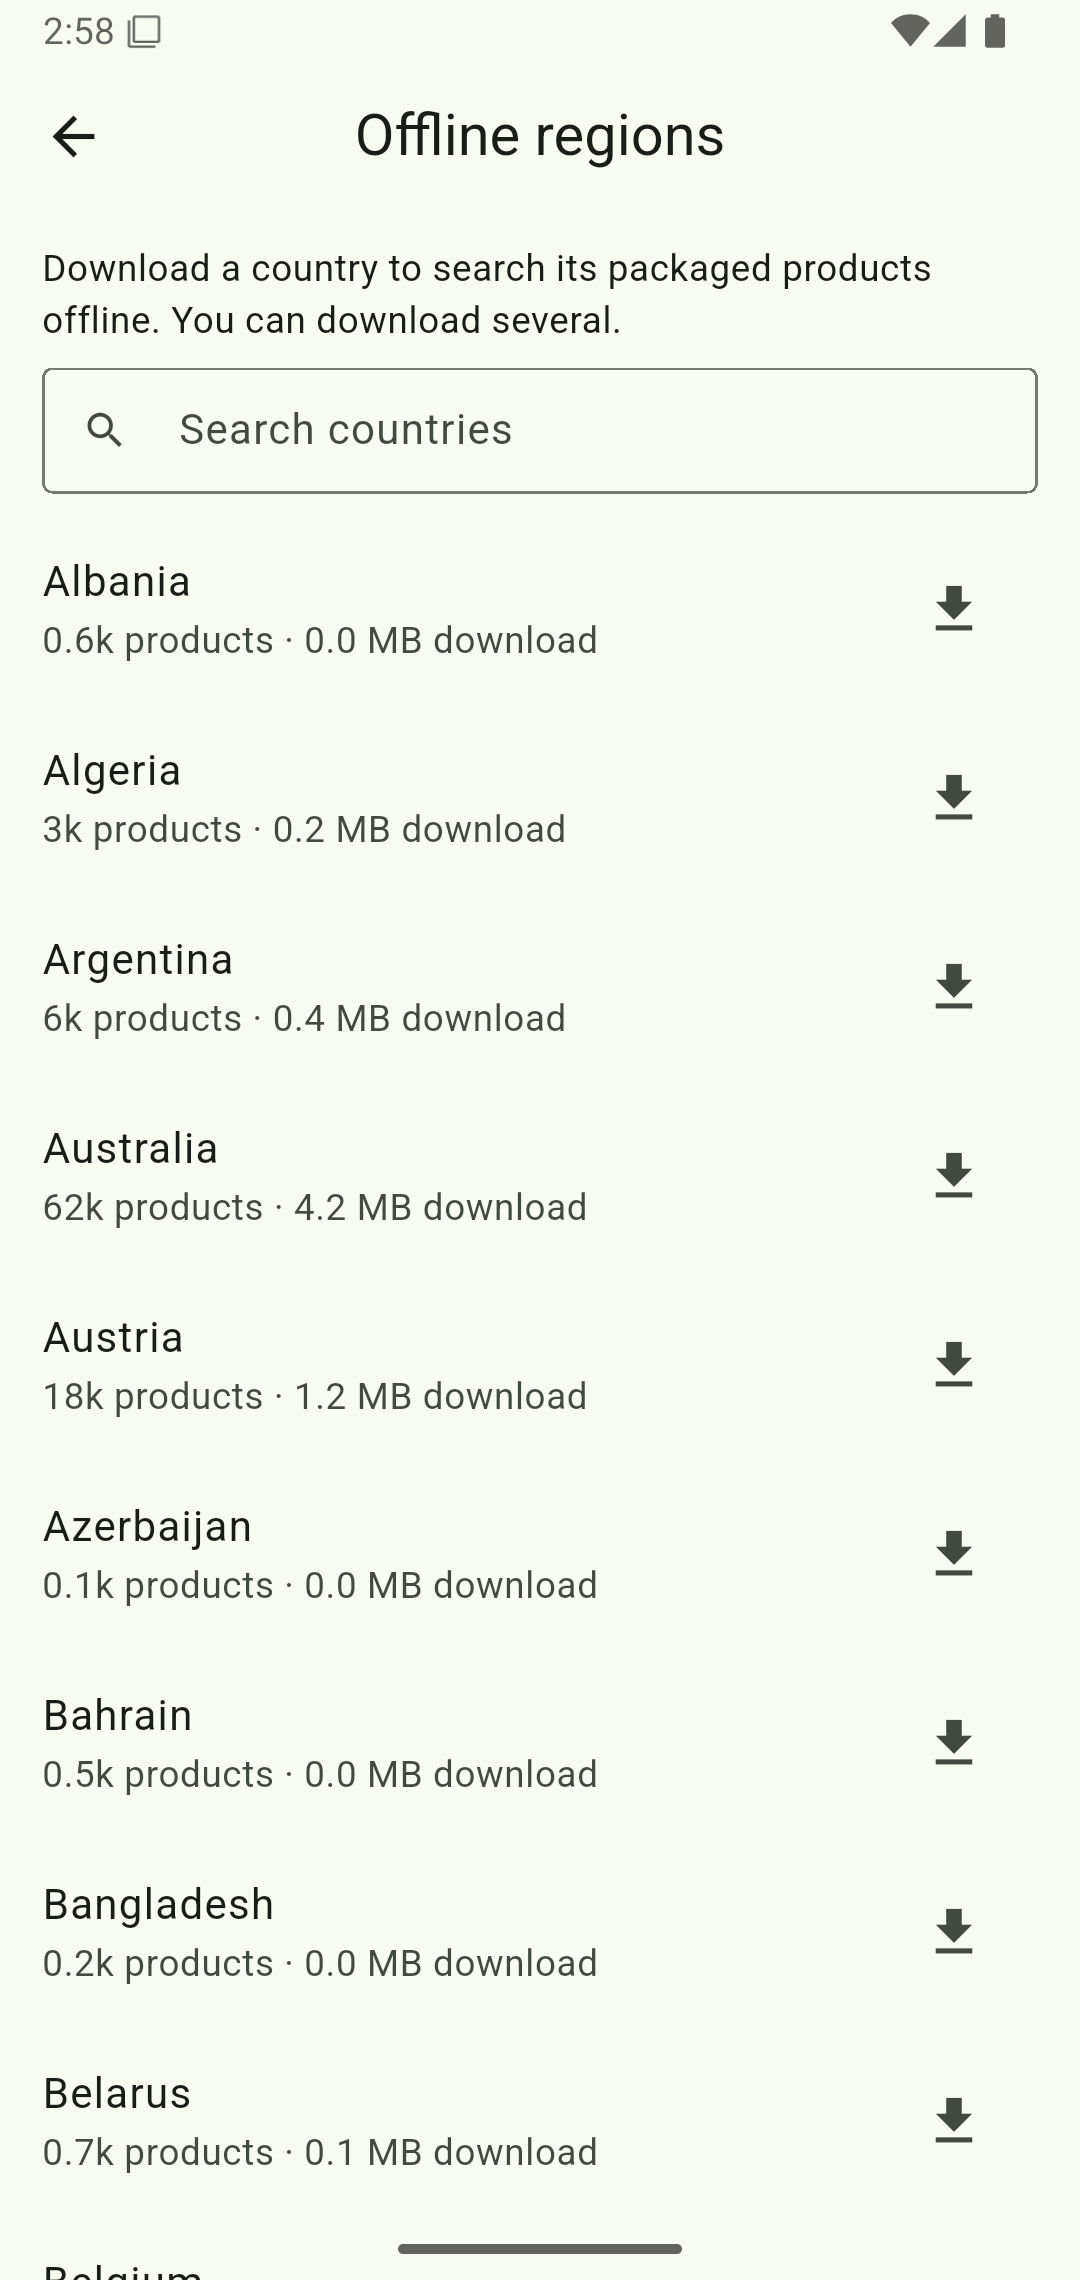
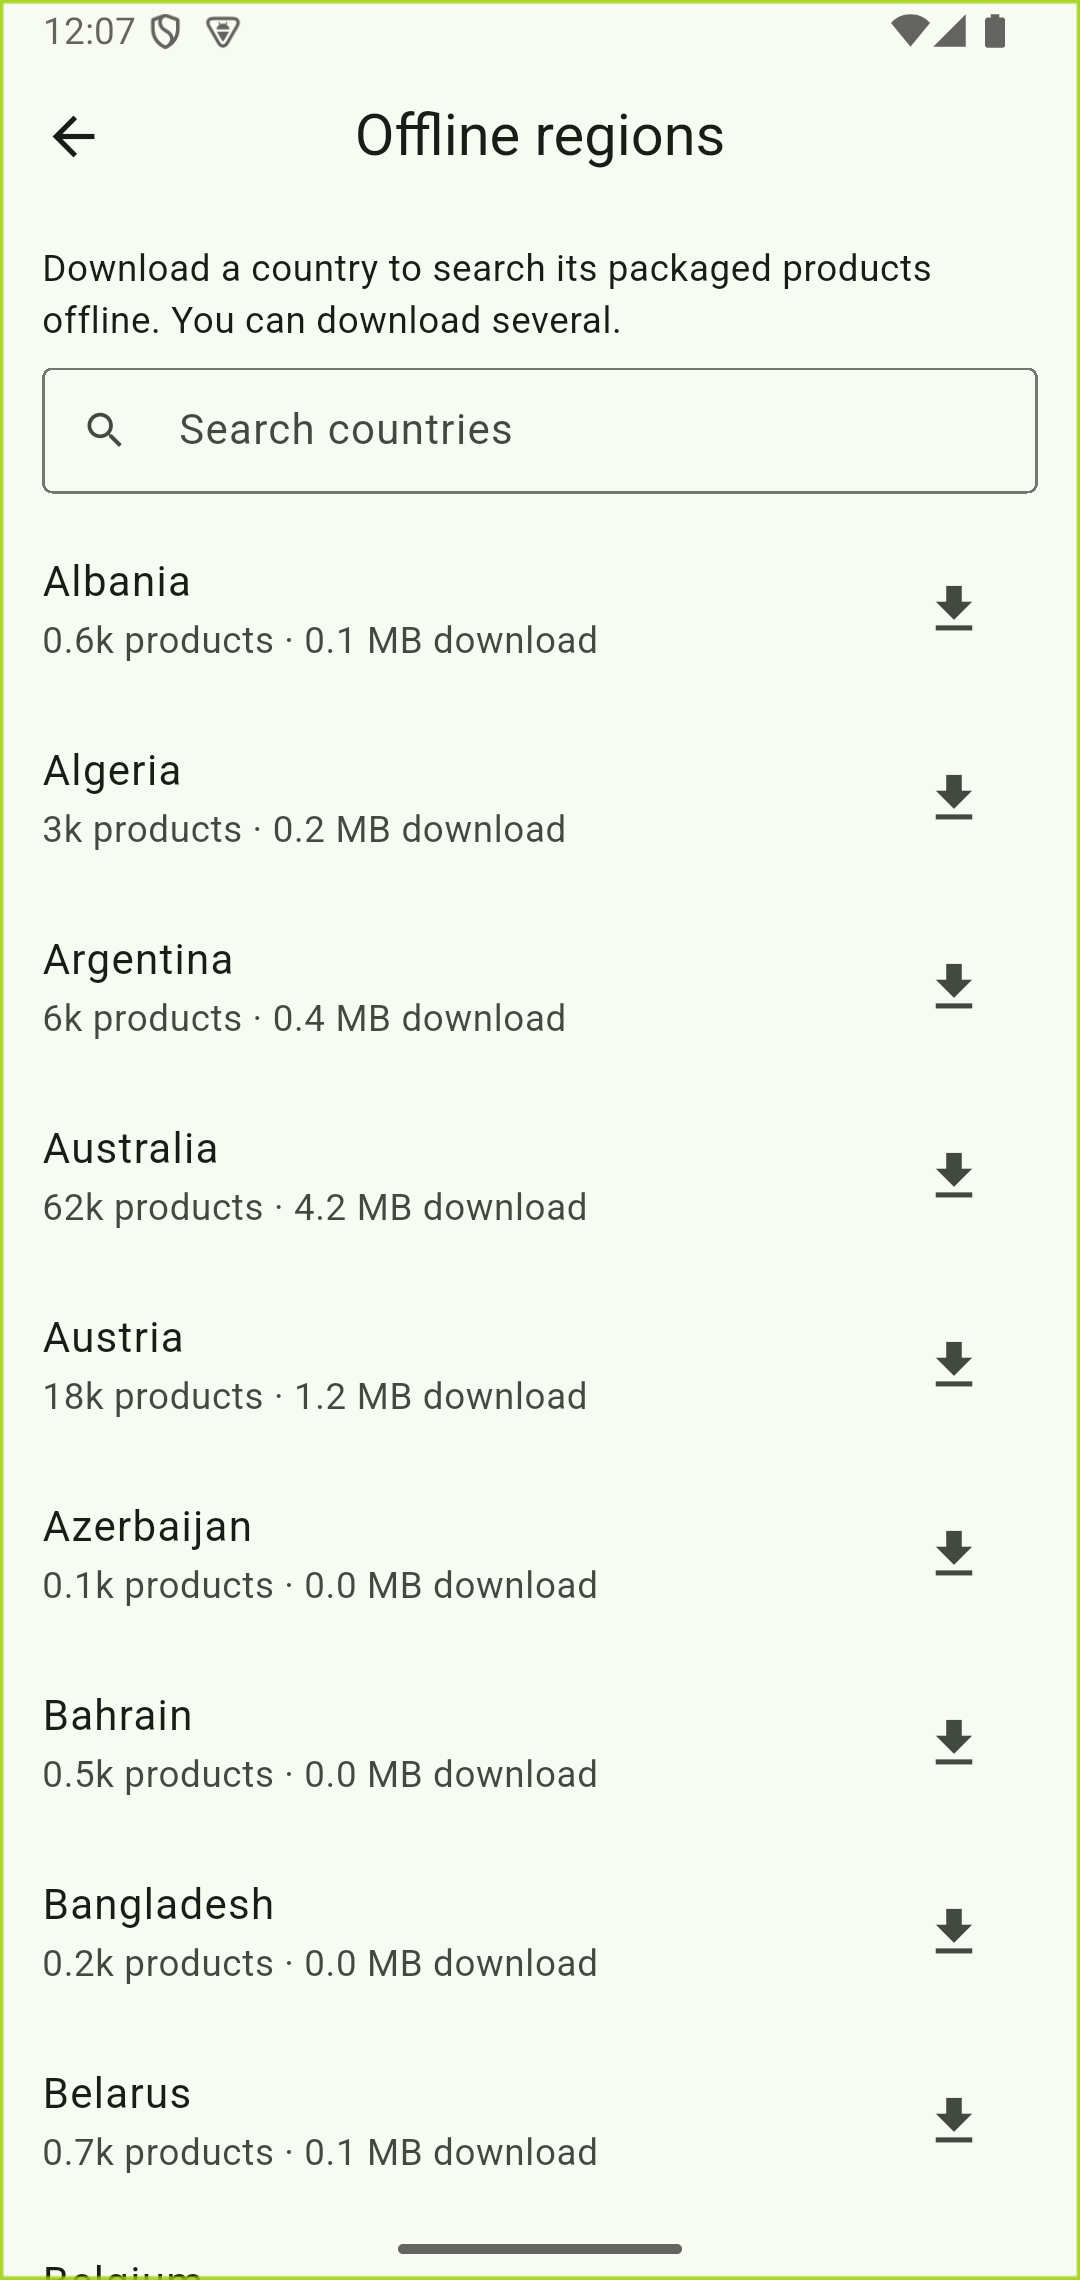
docs: refresh landing page — drop USDA/OFF-contribute, new features + screenshots
Update the GitHub Pages site for the current app:
- Drop the USDA claims (Swiss Food Composition Database now provides whole foods).
- Remove the "contribute it to OFF" claim (the add-product flow just saves locally).
- Fix "track your way" (fluid auto-grouped meals; the classic-meals toggle was dropped).
- Add features: AI meal recognition, Quick add, recipes-as-ingredients + image/text
  share/import, multilingual (EN/DE/FR/IT).
- Fresh screenshots from realistic seeded data (full day of meals, recipe, search
  showing OFF + Swiss DB, AI recognition, offline regions, language picker). Extra
  shots (recipes list, quick-log menu) kept for Play Store use.
- Footer credits OFF (ODbL) + Swiss FCDB (FSVO).

Claude-Session: https://claude.ai/code/session_01QkacK1f7cmX7tjSgap3GpF

Changed region(s): [[0.0, 0.0, 1.0, 1.0]]

diff --git a/docs/index.html b/docs/index.html
@@ -4,10 +4,10 @@
 <meta charset="UTF-8" />
 <meta name="viewport" content="width=device-width, initial-scale=1.0" />
 <title>Knabberfuchs — an honest calorie tracker</title>
-<meta name="description" content="Ad-free, no subscriptions, no popups. A fast offline calorie tracker built on Open Food Facts + USDA. Your data stays on your phone." />
+<meta name="description" content="Ad-free, no subscriptions, no popups. A fast, offline calorie tracker with barcode scan, AI meal photos, recipes and curated food data. Your data stays on your phone." />
 <link rel="icon" href="favicon.png" type="image/png" />
 <meta property="og:title" content="Knabberfuchs — an honest calorie tracker" />
-<meta property="og:description" content="Ad-free, no subscriptions, no popups. Fast, offline, built on Open Food Facts. Your data stays on your phone." />
+<meta property="og:description" content="Ad-free, no subscriptions, no popups. Fast and offline, with barcode scan, AI meal photos and recipes. Your data stays on your phone." />
 <meta property="og:image" content="screenshots/day.png" />
 <style>
   :root{
@@ -25,7 +25,7 @@
   header img.logo{width:104px;height:104px}
   h1{font-size:2.7rem;margin:.4rem 0 .2rem;letter-spacing:-.02em}
   .tagline{font-size:1.35rem;color:var(--green-d);font-weight:600;margin:0}
-  .sub{font-size:1.1rem;color:var(--muted);max-width:620px;margin:18px auto 0}
+  .sub{font-size:1.1rem;color:var(--muted);max-width:640px;margin:18px auto 0}
 
   .badges{display:flex;flex-wrap:wrap;gap:10px;justify-content:center;margin:26px 0 8px}
   .badge{background:var(--card);border:1px solid var(--line);border-radius:999px;
@@ -35,7 +35,7 @@
   h2{font-size:1.6rem;text-align:center;margin:0 0 28px;letter-spacing:-.01em}
 
   .shots{display:flex;gap:22px;justify-content:center;flex-wrap:wrap}
-  .shots figure{margin:0;width:240px}
+  .shots figure{margin:0;width:230px}
   .shots img{width:100%;border-radius:22px;border:1px solid var(--line);
              box-shadow:0 10px 30px rgba(60,80,40,.12);display:block}
   .shots figcaption{text-align:center;color:var(--muted);font-size:.92rem;margin-top:10px}
@@ -64,12 +64,14 @@
     <img class="logo" src="fox.png" alt="Knabberfuchs fox" />
     <h1>Knabberfuchs</h1>
     <p class="tagline">An honest calorie tracker.</p>
-    <p class="sub">Scan a barcode or search, type the grams, done. No ads, no subscription,
-      no popups, no account. Works offline, and your data never leaves your phone.</p>
+    <p class="sub">Scan a barcode, search, snap a photo of your meal, or just type a name and
+      the calories. No ads, no subscription, no popups, no account. Works offline, and your
+      data never leaves your phone.</p>
     <div class="badges">
       <span class="badge">Ad-free</span>
       <span class="badge">No subscription</span>
       <span class="badge">No popups</span>
+      <span class="badge">No account</span>
       <span class="badge">Works offline</span>
       <span class="badge">Your data stays local</span>
     </div>
@@ -80,11 +82,17 @@
   <div class="wrap">
     <div class="shots">
       <figure><img src="screenshots/day.png" alt="The day view" />
-        <figcaption>See your day, meal by meal</figcaption></figure>
+        <figcaption>Your whole day at a glance</figcaption></figure>
+      <figure><img src="screenshots/recognize.png" alt="AI meal recognition" />
+        <figcaption>Snap a meal — AI names it &amp; estimates the calories</figcaption></figure>
       <figure><img src="screenshots/search.png" alt="Food search" />
-        <figcaption>Search Open Food Facts + USDA</figcaption></figure>
+        <figcaption>Search Open Food Facts + the Swiss food database</figcaption></figure>
+      <figure><img src="screenshots/recipe.png" alt="A recipe" />
+        <figcaption>Recipes, logged as their real ingredients</figcaption></figure>
       <figure><img src="screenshots/regions.png" alt="Offline regions" />
         <figcaption>Download any country, search offline</figcaption></figure>
+      <figure><img src="screenshots/language.png" alt="Languages" />
+        <figcaption>English, German, French &amp; Italian</figcaption></figure>
     </div>
   </div>
 </section>
@@ -94,23 +102,35 @@
     <h2>What it does</h2>
     <div class="grid">
       <div class="feat"><span class="em">📷</span><h3>Scan barcodes</h3>
-        <p>Packaged products from Open Food Facts; whole foods from a bundled USDA dataset.</p></div>
+        <p>Packaged products from Open Food Facts. Not in the database? Add it yourself — scan
+          the nutrition label and it's saved for next time.</p></div>
       <div class="feat"><span class="em">🔎</span><h3>Fast local search</h3>
-        <p>Hundreds of thousands of foods, with smart synonyms and ranking — no waiting.</p></div>
+        <p>Hundreds of thousands of foods from Open Food Facts, plus the curated Swiss Food
+          Composition Database — instant, with smart ranking.</p></div>
+      <div class="feat"><span class="em">📸</span><h3>Recognise a meal</h3>
+        <p>Snap a photo and on-device AI guesses the dish and estimates the calories. No cloud,
+          no account — it runs entirely on your phone.</p></div>
+      <div class="feat"><span class="em">⚡</span><h3>Quick add</h3>
+        <p>Already know the number? Log “Lasagna · 816&nbsp;kcal” in a couple of taps, with
+          optional macros.</p></div>
+      <div class="feat"><span class="em">📖</span><h3>Recipes</h3>
+        <p>Build recipes once, then log a portion to any day — broken back into its real
+          ingredients. Share by QR or image, import by QR or text.</p></div>
+      <div class="feat"><span class="em">🖼️</span><h3>Meal from a photo</h3>
+        <p>Photograph a printed ingredient list; on-device OCR turns it into a meal you can
+          match and log.</p></div>
+      <div class="feat"><span class="em">🍽️</span><h3>Effortless meals</h3>
+        <p>Everything you add flows into the current meal automatically. Rename it, split it
+          across days, or save it as a recipe.</p></div>
       <div class="feat"><span class="em">🌍</span><h3>Offline, worldwide</h3>
         <p>Download any of 106 country databases and scan + search with no connection.</p></div>
-      <div class="feat"><span class="em">🍽️</span><h3>Track your way</h3>
-        <p>Auto-grouped meals as you add, or classic Breakfast / Lunch / Dinner / Snacks.</p></div>
-      <div class="feat"><span class="em">📖</span><h3>Recipes &amp; sharing</h3>
-        <p>Build recipes, log a portion to any day, and share by QR — no server involved.</p></div>
-      <div class="feat"><span class="em">🖼️</span><h3>Meal from a photo</h3>
-        <p>Snap a recipe's ingredient list; on-device OCR turns it into a meal to match.</p></div>
-      <div class="feat"><span class="em">➕</span><h3>Add missing products</h3>
-        <p>Barcode not found? Add it (OCR the label), and optionally contribute it to OFF.</p></div>
+      <div class="feat"><span class="em">🗣️</span><h3>Speaks your language</h3>
+        <p>Available in English, German, French and Italian.</p></div>
       <div class="feat"><span class="em">❤️</span><h3>Health Connect</h3>
         <p>Optionally sync your logged calories &amp; macros to Android Health Connect.</p></div>
       <div class="feat"><span class="em">💾</span><h3>Your data, a zip</h3>
-        <p>Export everything to a backup zip (JSON + CSV) and restore it any time.</p></div>
+        <p>Export everything to a backup zip (JSON + CSV) and restore it any time. No cloud,
+          no lock-in.</p></div>
     </div>
   </div>
 </section>
@@ -128,7 +148,8 @@
 
 <footer>
   <div class="wrap">
-    Knabberfuchs · made in Switzerland 🇨🇭 · product data © Open Food Facts contributors (ODbL)
+    Knabberfuchs · made in Switzerland 🇨🇭 · food data © Open Food Facts contributors (ODbL)
+    &amp; the Swiss Food Composition Database (FSVO)
   </div>
 </footer>
 